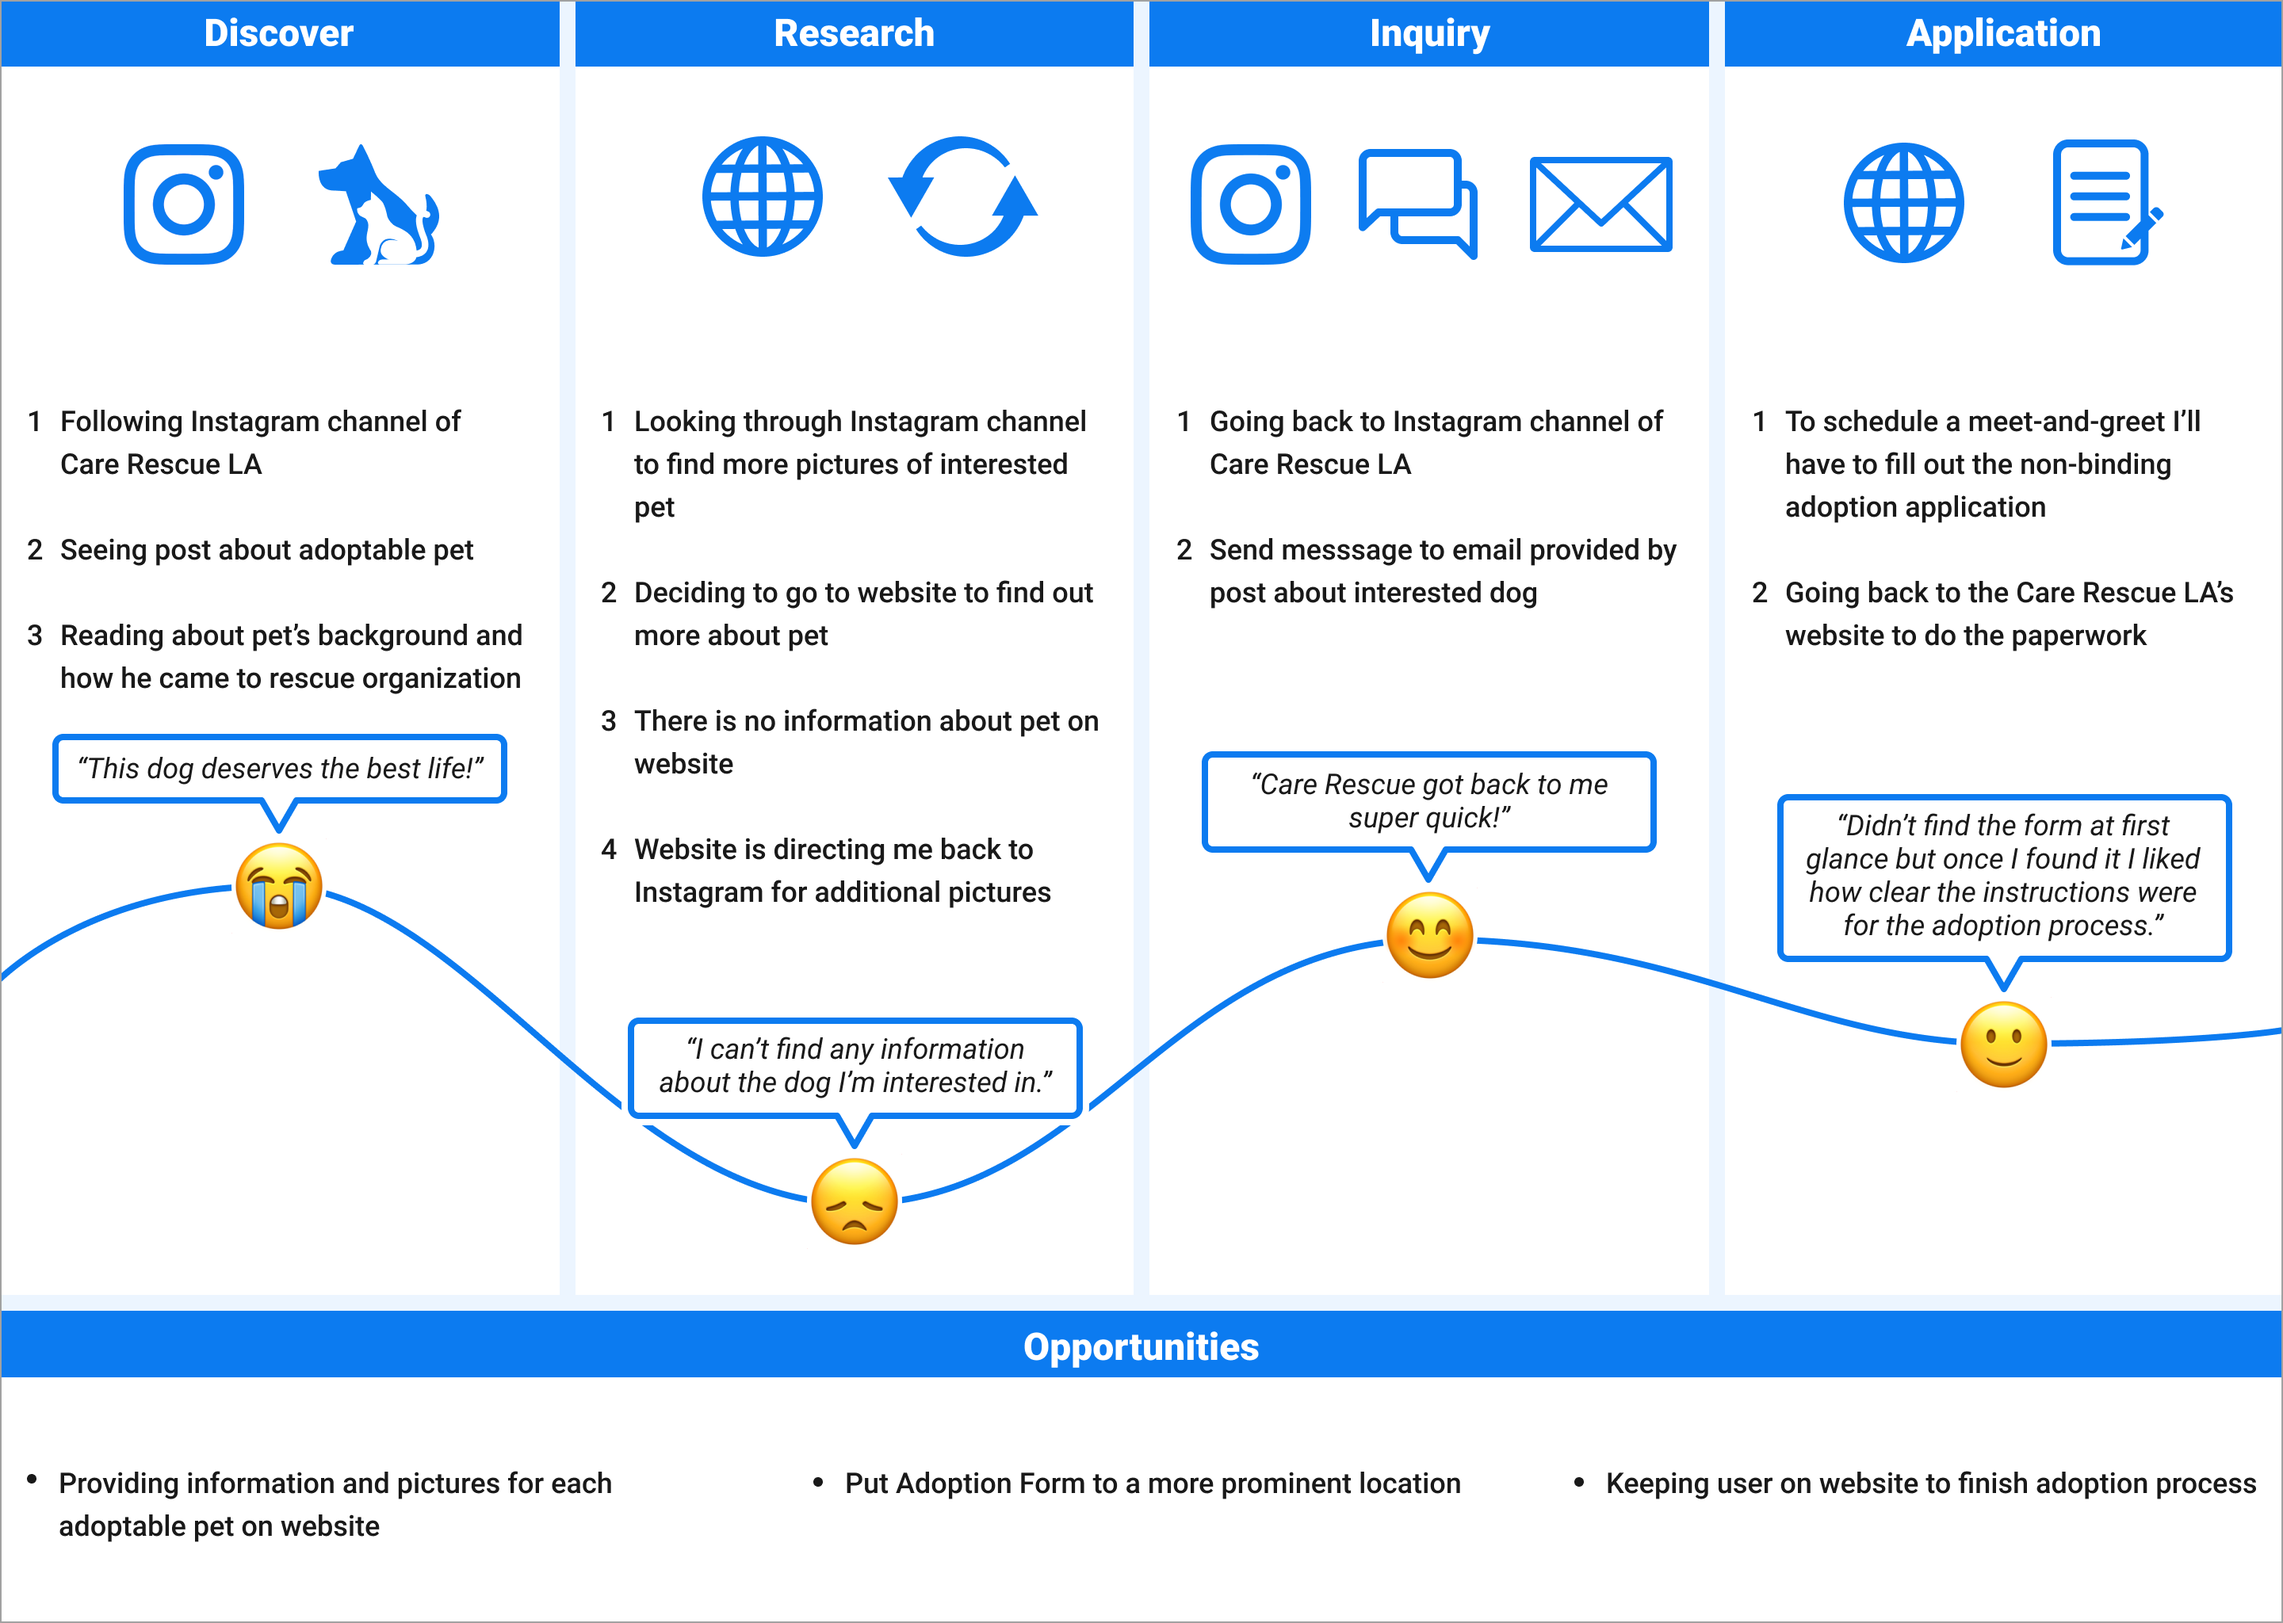
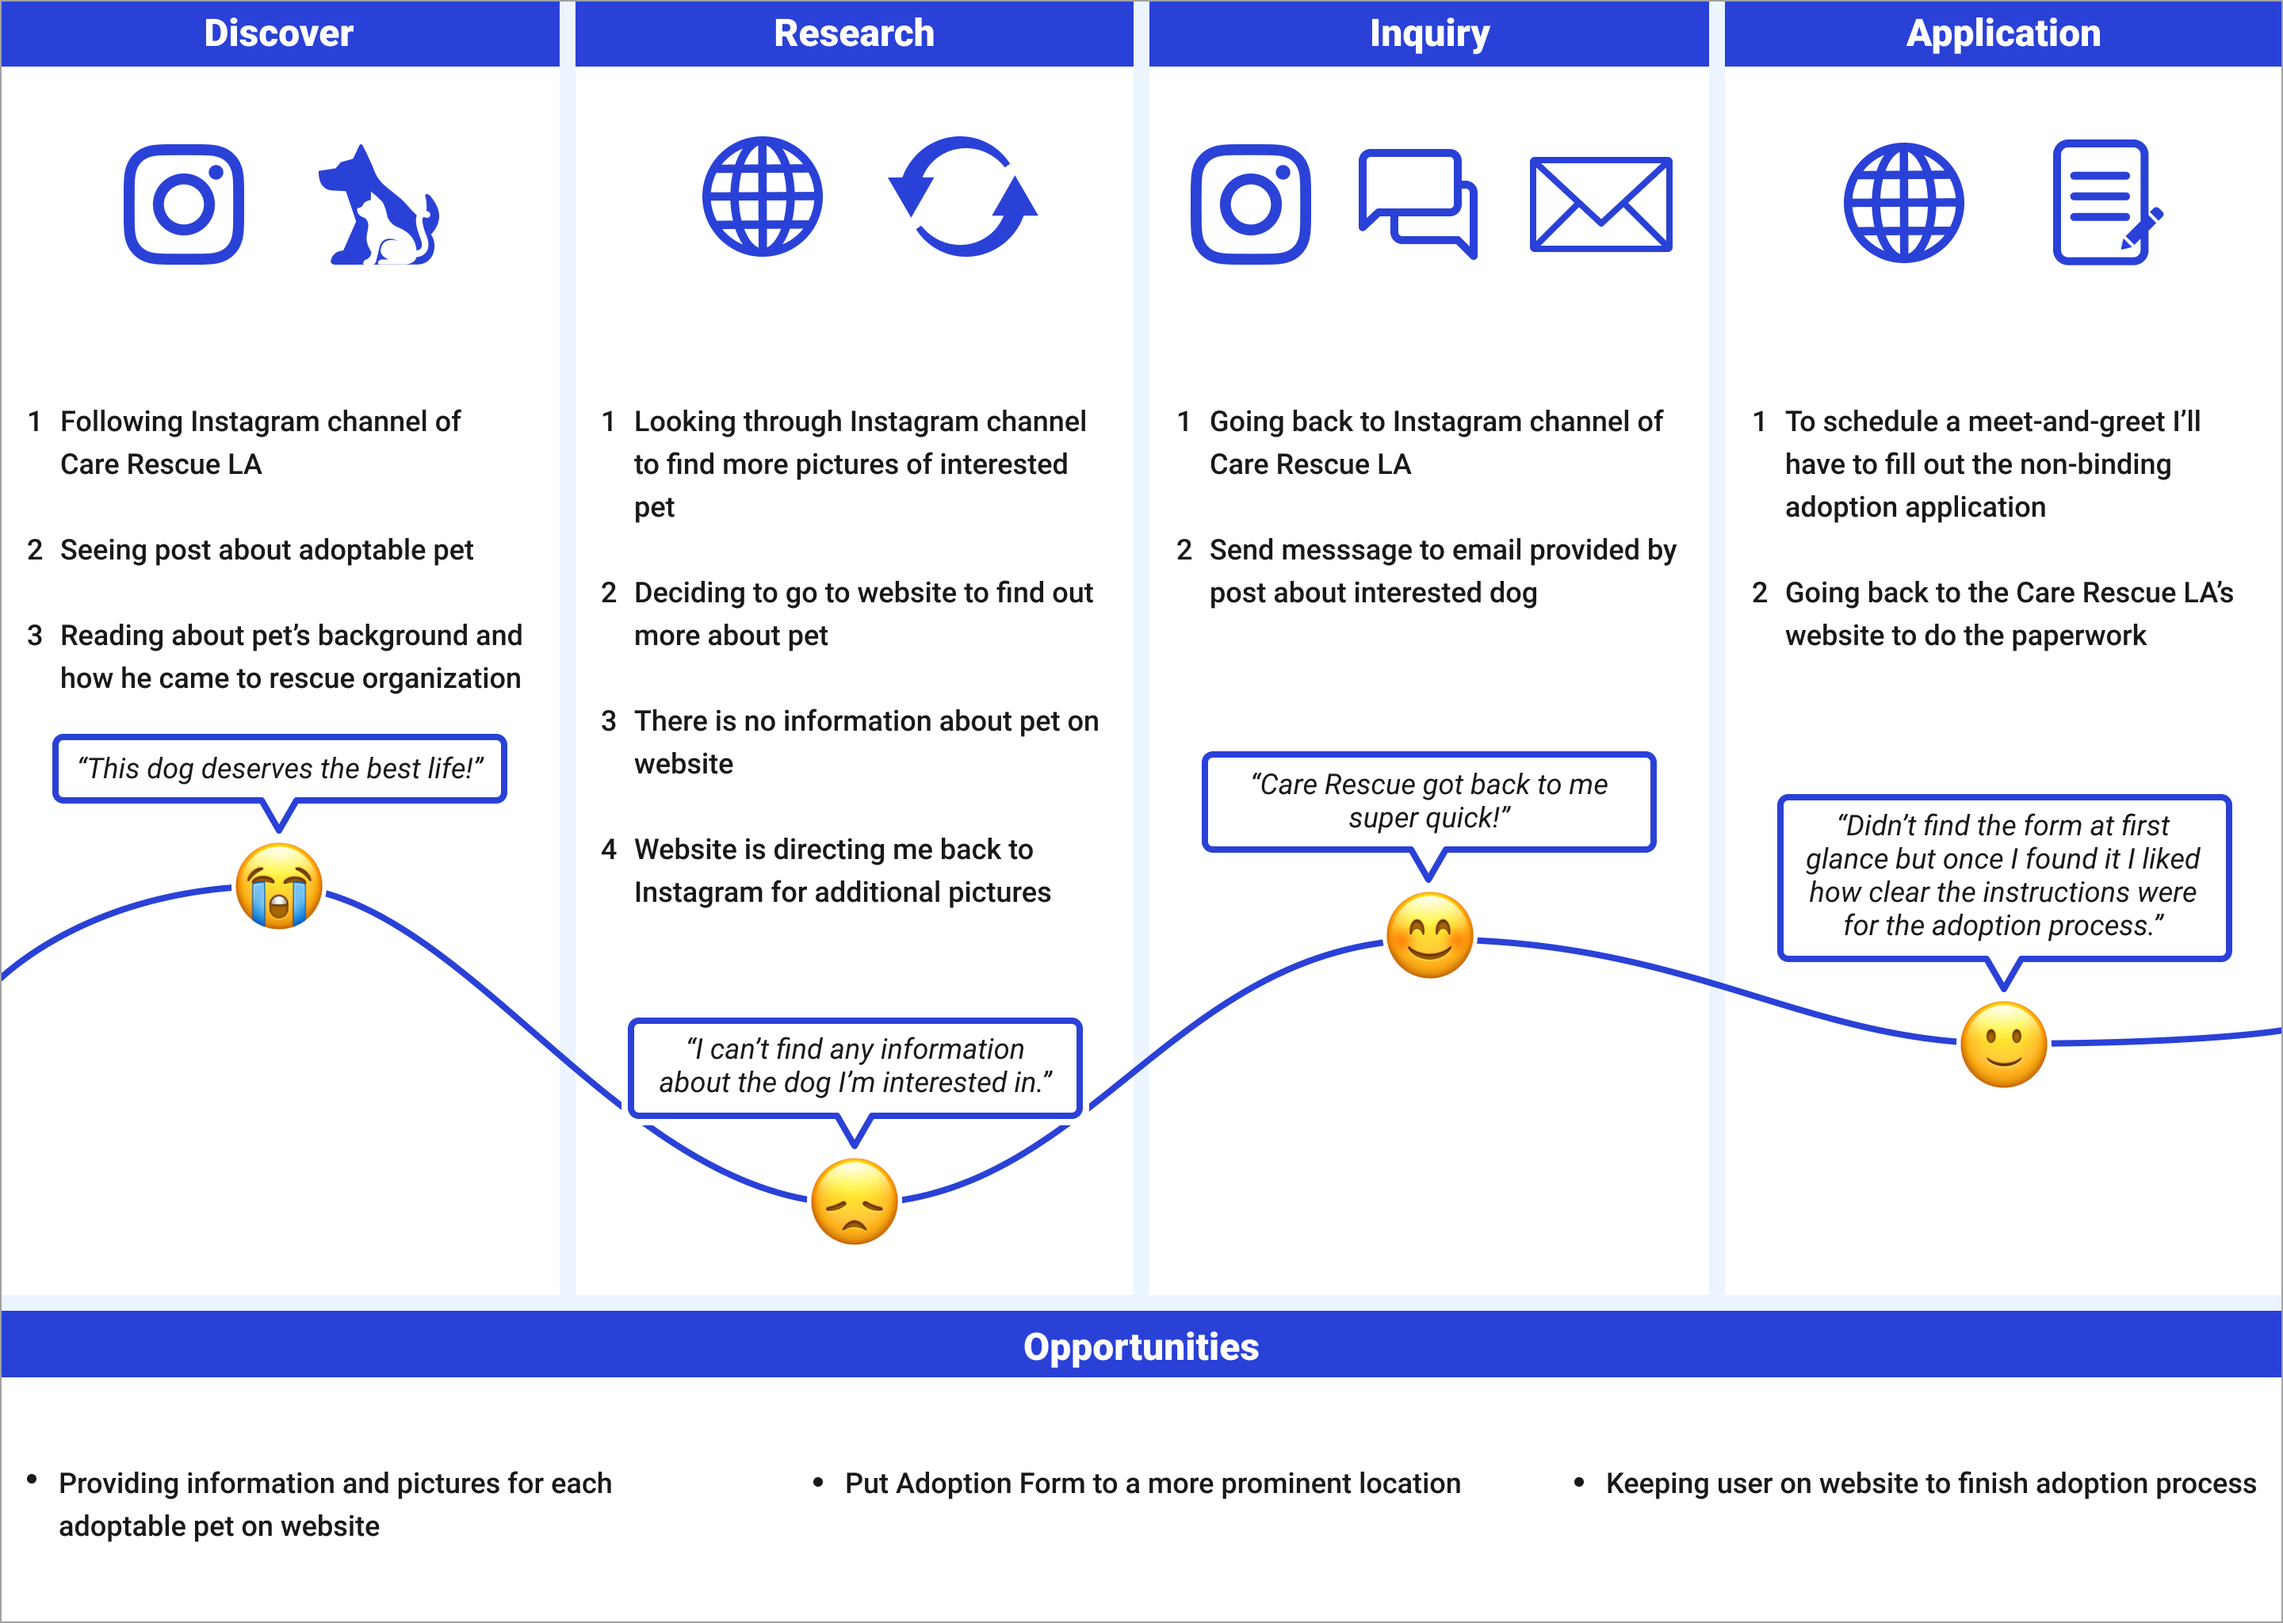
change cta color for CARE

diff --git a/case-study-redesign-website.html b/case-study-redesign-website.html
@@ -69,7 +69,7 @@
           </div>
           <div class="PaddingforOverview">
           <div class="Intro">
-            <h2><span class="NumberCoral">01</span> Research Goal</h2>
+            <h2><span class="NumberCare">01</span> Research Goal</h2>
             <p>CARE Rescue LA is a non-profit organization saving animals in Southern California and surrounding areas. </p>
 
           </div>
@@ -92,16 +92,16 @@
 
 
           <div class="Problem">
-            <h2><span class="NumberCoral">02</span> Methodology</h2>
+            <h2><span class="NumberCare">02</span> Methodology</h2>
             <p>2-week field study to assess the effectiveness of CARE Rescue LA’s website as participants used it . Study participants were located in Los Angeles, CA. <br> <br>
-            <span class="PhaseBold">Phase 01:</span> Conduct user surveys for the target demographic. <br>
-  <span class="PhaseBold">Phase 02:</span> Competitive usability testing with CARE's site and website of competitor.
+            <span class="PhaseBoldCARE">Phase 01:</span> Conduct user surveys for the target demographic. <br>
+  <span class="PhaseBoldCARE">Phase 02:</span> Competitive usability testing with CARE's site and website of competitor.
 </p>
           </div>
 
           <div class="CompetitiveAnalysis">
             <div class="CompetitiveAnalysis02">
-              <h2><span class="NumberCoral">03</span> Industry Analysis</h2>
+              <h2><span class="NumberCare">03</span> Industry Analysis</h2>
               <p> Competitive Analysis of companies in the same industry sector or market niche located in Los Angeles & surroundings.
               </p>
             </div>
@@ -137,23 +137,23 @@
 
         <section class="ProcessDetails">
             <div class="test">
-              <h2><span class="NumberCoral">04</span> Qualitative Survey</h2>
+              <h2><span class="NumberCare">04</span> Qualitative Survey</h2>
               <p> The participants of the survey were former adopters of CARE as well as fosters. The goal of it was to find out at what part of the adoption/foster process the website comes to use — discovering pain points and opportunities for the site of Care Rescue LA.
               </p>
               <!--<p>I conducted a user survey to figure out </p><br><br><br>-->
             </div>
             <div class="containerresearch">
               <div class="numberone">
-                <p class="research-percentage"> 67%</p>
+                <p class="research-percentageCARE"> 67%</p>
                 <p class="research-data">Of the participants discovered their animals on CARE's instagram account
                 </p><br><br><br>
               </div>
               <div class="numbertwo">
-                <p class="research-percentage">100%</p>
+                <p class="research-percentageCARE">100%</p>
                 <p class="research-data">Used the website to fill out the adoption application</p><br><br><br>
               </div>
               <div class="numberthree">
-                <p class="research-percentage"> 50%</p>
+                <p class="research-percentageCARE"> 50%</p>
                 <p class="research-data">Went to the website to read about CARE Rescue LA</p><br><br><br>
               </div>
 
@@ -175,7 +175,7 @@
 
           <div class="CompetitiveAnalysis">
             <div class="CompetitiveAnalysis02">
-              <h2><span class="NumberCoral">05</span> Feedback</h2>
+              <h2><span class="NumberCare">05</span> Feedback</h2>
               <p class="Feedback">
 
 “I’d like to see <span class="FeedbackBold">post-adoption stories</span> - see where they are now.” <br> <br>
@@ -293,7 +293,7 @@
             <img src="images/divider.svg" alt="divider-image">
           </div>-->
           <div class="Intro">
-            <h2> <span class="NumberCoral">06</span> User Persona</h2>
+            <h2> <span class="NumberCare">06</span> User Persona</h2>
             <p>    </p>
 
           </div>
@@ -319,7 +319,7 @@
 
 
           <div class="Intro">
-            <h2> <span class="NumberCoral">06</span> Competitive Usability Testing</h2>
+            <h2> <span class="NumberCare">06</span> Competitive Usability Testing</h2>
             <p> To understand the strengths and weaknesses of the current design, I conducted remote usability tests. We did also test the website of a competitor to garner ideas and gain a more in-depth insight into what design elements work or fail.  </p>
 
           </div>
@@ -356,7 +356,7 @@
 
           <section class="ProcessDetails">
               <div class="test">
-                <h2><span class="NumberCoral">07</span> Customer Journey Map</h2>
+                <h2><span class="NumberCare">07</span> Customer Journey Map</h2>
                 <p> A Customer Journey Map was created to tell the story of the adoption experience. From initial discovery to filling out an adoption application.
 
                   <!--The survey showed that adopters discover their animal on the organization's Instagram account.
@@ -390,19 +390,19 @@
 
 
   <div class="Problem">
-            <h2><span class="NumberCoral">08</span> Overall Themes and Opportunities</h2>
+            <h2><span class="NumberCare">08</span> Overall Themes and Opportunities</h2>
             <p>
-              <span class="PhaseBold">01</span> <br>The research showed that a radical website redesign wouldn't be justified. The discovered pain points can be fixed with incremental changes, and there isn't enough reason for a complete overhaul.  <br><br>
-            <span class="PhaseBold">02</span> <br>The #1 suggestion I received was about the missing pet profiles and the adoptable pets page. The interested adopters would love to see what animals are adoptable and have descriptions about each pet so they can get to know their personality. <br><br>
-            <span class="PhaseBold">03</span> <br>The primary use of the website is to fill out the foster and adoption application. We should move that feature to a more prominent location of the site so the user, when going to the website, immediately sees it. <br><br>
-            <span class="PhaseBold">04</span> <br>The users care for the rescue animals and would love to read about the rescue animals' happy ending. At the moment, one cat's story (the adorable Marty) got told on the page Furever Homes, and it would be a great opportunity if more and more post-adoption stories would get added to it.<br><br>
-            <span class="PhaseBold">05</span> <br>Currently, users are getting sent back and forth between the organization's Instagram channel and the website, and the goal should be to keep the users on the site.
+              <span class="PhaseBoldCARE">01</span> <br>The research showed that a radical website redesign wouldn't be justified. The discovered pain points can be fixed with incremental changes, and there isn't enough reason for a complete overhaul.  <br><br>
+            <span class="PhaseBoldCARE">02</span> <br>The #1 suggestion I received was about the missing pet profiles and the adoptable pets page. The interested adopters would love to see what animals are adoptable and have descriptions about each pet so they can get to know their personality. <br><br>
+            <span class="PhaseBoldCARE">03</span> <br>The primary use of the website is to fill out the foster and adoption application. We should move that feature to a more prominent location of the site so the user, when going to the website, immediately sees it. <br><br>
+            <span class="PhaseBoldCARE">04</span> <br>The users care for the rescue animals and would love to read about the rescue animals' happy ending. At the moment, one cat's story (the adorable Marty) got told on the page Furever Homes, and it would be a great opportunity if more and more post-adoption stories would get added to it.<br><br>
+            <span class="PhaseBoldCARE">05</span> <br>Currently, users are getting sent back and forth between the organization's Instagram channel and the website, and the goal should be to keep the users on the site.
             </p>
   </div>
 
 
   <div class="Intro">
-    <h2> <span class="NumberCoral">09</span> Conclusion</h2>
+    <h2> <span class="NumberCare">09</span> Conclusion</h2>
     <p> I loved doing this project, especially since I was able to help a great organization that puts all their energy into saving animals. What I wished I would have done differently is the user survey. I was so focused on finding out through the survey how the users are using the site that I didn’t ask important questions that I needed for the user persona. <br><br>
 
 Something I’m proud of is the competitive usability testing and journey map. I got valuable feedback and thoughts from the participants that gave me new insights about how they see the website. <br><br>

diff --git a/css/style.css b/css/style.css
@@ -848,6 +848,9 @@ grid-column: span 6;
   color: #2CB3ED;
 }
 
+.NumberCare {
+  color: #2A41D7;
+}
 .NumberStriped {
   color: #E3607F;
 }
@@ -855,6 +858,11 @@ grid-column: span 6;
 .PhaseBold {
   font-weight: bold;
   color: #2CB3ED;
+}
+
+.PhaseBoldCARE {
+  font-weight: bold;
+  color: #2A41D7;
 }
 
 .WholeProcessBG {
@@ -880,6 +888,13 @@ grid-column: span 6;
   font-family: 'Raleway';
   font-weight: 600;
   color: #2CB3ED;
+}
+
+.research-percentageCARE {
+  font-size: 2.4em;
+  font-family: 'Raleway';
+  font-weight: 600;
+  color: #2A41D7;
 }
 
 .research-percentageStripes {
